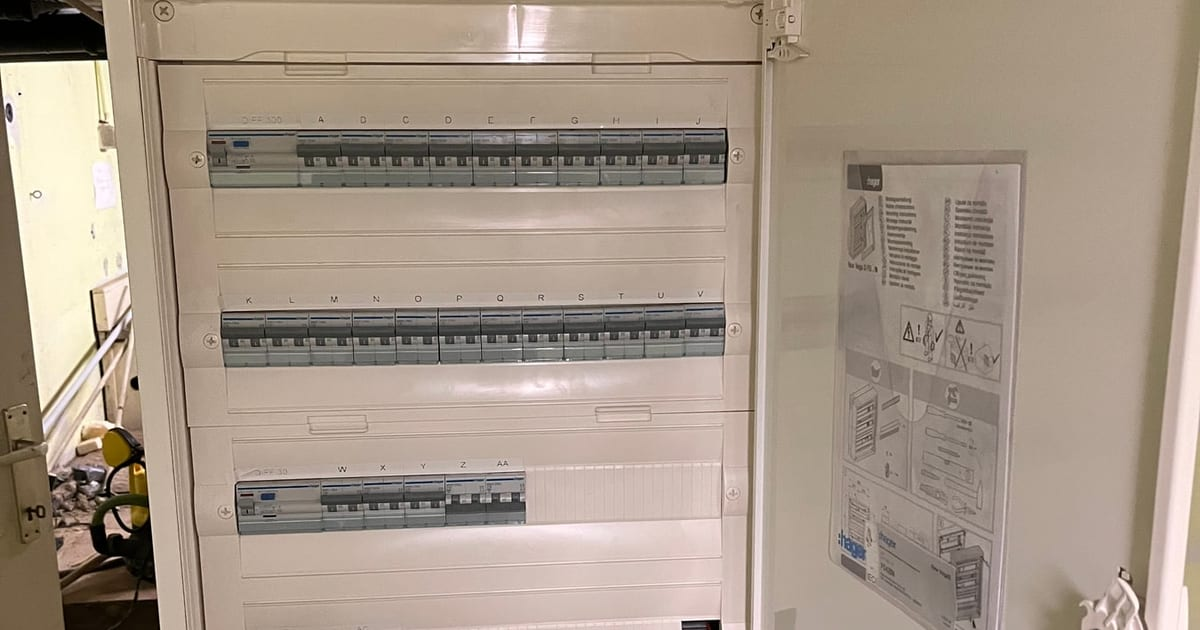
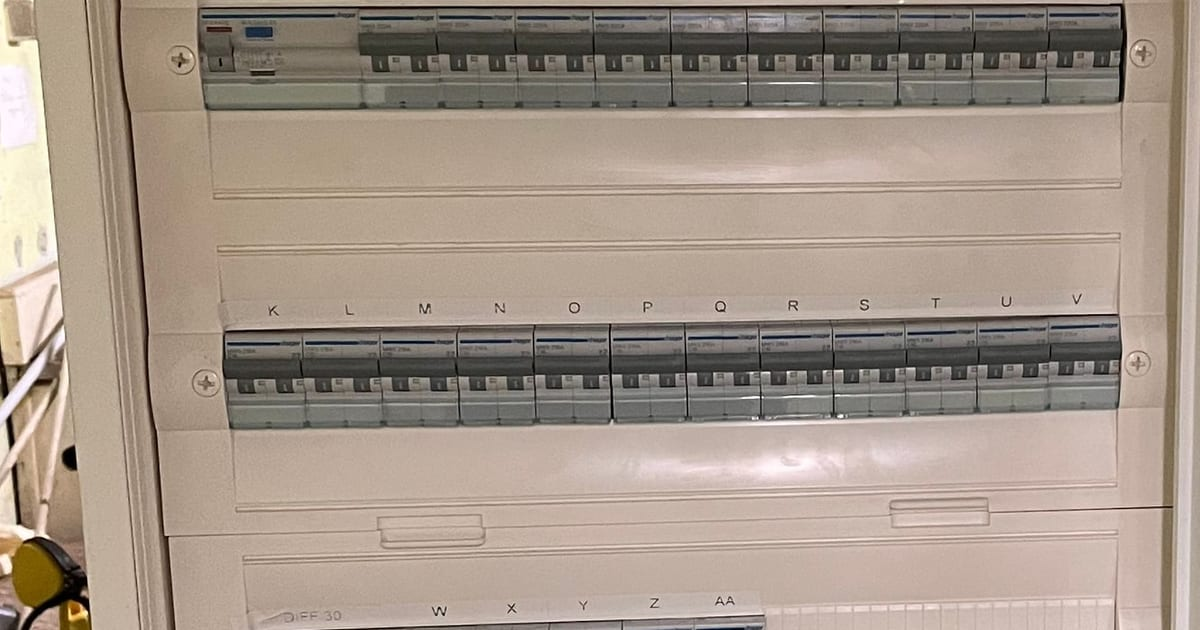
Foto's: werffoto generiek bijgesneden (enkel handen en kabels), verdeelkast bijgesneden, 4 rechtenvrije foto's (CC0/publiek domein, bronnen in assets-in/stock/bronnen.json); 10 van de 15 placeholders vervangen

diff --git a/src/data/fotos.ts b/src/data/fotos.ts
@@ -1,10 +1,15 @@
-// Echte foto's van het werk van Heeman Electrics (aangeleverd 23-09-2026, verwerkt met scripts/fotos.mjs: metadata/GPS verwijderd).
+// Foto's: eigen werffoto's van Heeman Electrics (generiek bijgesneden, 29-10-2026) + rechtenvrije foto's (CC0/publiek domein,
+// bron en licentie in assets-in/stock/bronnen.json). Verwerkt met scripts/fotos.mjs: metadata/GPS verwijderd.
 // `focus` = object-position: welk deel van de foto zichtbaar blijft als hij wordt bijgesneden.
 // `titel` = korte beschrijving voor realisatiekaarten; gemeente nog aan te vullen.
 import type { ImageMetadata } from 'astro';
-import bert from '../assets/fotos/bert-aan-het-werk.jpg';
+import bekabeling from '../assets/fotos/bekabeling-renovatie.jpg';
 import laadpaal from '../assets/fotos/laadpaal-gevel-baksteen.jpg';
-import verdeelkast from '../assets/fotos/verdeelkast-hager.jpg';
+import verdeelkast from '../assets/fotos/verdeelkast.jpg';
+import buitenpost from '../assets/fotos/videofoon-buitenpost.jpg';
+import sfeerverlichting from '../assets/fotos/sfeerverlichting.jpg';
+import zonnepanelen from '../assets/fotos/zonnepanelen-dak.jpg';
+import oudeVerdeelkast from '../assets/fotos/oude-verdeelkast.jpg';
 import stopcontactenAf from '../assets/fotos/stopcontacten-travertin-afgewerkt.jpg';
 import stopcontactenPlaatsing from '../assets/fotos/stopcontacten-travertin-plaatsing.jpg';
 import schakelaars from '../assets/fotos/schakelaars-inbouw.jpg';
@@ -12,10 +17,10 @@ import schakelaars from '../assets/fotos/schakelaars-inbouw.jpg';
 export type Foto = { src: ImageMetadata; alt: string; focus: string; titel: string };
 
 export const fotos = {
-  bert: {
-    src: bert,
-    alt: 'Elektricien van Heeman Electrics trekt nieuwe kabels door een opengekapte muur tijdens een renovatie',
-    focus: '50% 22%',
+  bekabeling: {
+    src: bekabeling,
+    alt: 'Handen van een elektricien die nieuwe kabels door een opengekapte muur trekken tijdens een renovatie',
+    focus: '55% 40%',
     titel: 'Nieuwe bekabeling tijdens een renovatie',
   },
   laadpaal: {
@@ -27,7 +32,7 @@ export const fotos = {
   verdeelkast: {
     src: verdeelkast,
     alt: 'Nieuwe verdeelkast met automaten en differentieelschakelaars, netjes gelabeld',
-    focus: '38% 50%',
+    focus: '50% 45%',
     titel: 'Nieuwe verdeelkast met differentieelschakelaars',
   },
   stopcontactenAf: {
@@ -47,6 +52,31 @@ export const fotos = {
     alt: 'Inbouwmechanismen voor schakelaars in de muur, klaar voor de afwerking',
     focus: '52% 42%',
     titel: 'Schakelaars klaar voor de afwerking',
+  },
+  // Rechtenvrij (zie assets-in/stock/bronnen.json)
+  buitenpost: {
+    src: buitenpost,
+    alt: 'Buitenpost van een videofoon met camera en drukknoppen aan een bakstenen gevel',
+    focus: '50% 45%',
+    titel: 'Videofoon aan de voordeur',
+  },
+  sfeerverlichting: {
+    src: sfeerverlichting,
+    alt: 'Hanglampen met warm licht boven een eettafel',
+    focus: '45% 40%',
+    titel: 'Sfeerverlichting met warm licht',
+  },
+  zonnepanelen: {
+    src: zonnepanelen,
+    alt: 'Zonnepanelen op het dak van een woning',
+    focus: '60% 45%',
+    titel: 'Zonnepanelen op een dak',
+  },
+  oudeVerdeelkast: {
+    src: oudeVerdeelkast,
+    alt: 'Verouderde verdeelkast met losse zekeringkasten en opbouwleidingen tegen een muur',
+    focus: '22% 50%',
+    titel: 'Verouderde verdeelkast',
   },
 } satisfies Record<string, Foto>;
 

diff --git a/src/data/diensten.ts b/src/data/diensten.ts
@@ -167,7 +167,7 @@ export const diensten: Dienst[] = [
           'Ja. We komen langs, bekijken uw installatie en zeggen u wat er moet gebeuren voordat u de keuring aanvraagt. Zo voorkomt u verrassingen.',
       },
     ],
-    fotos: ['verdeelkast', { placeholder: 'dezelfde verdeelkast vóór de werken' }],
+    fotos: ['oudeVerdeelkast', 'verdeelkast'],
     bijgewerkt: BIJGEWERKT,
   },
   {
@@ -217,7 +217,7 @@ export const diensten: Dienst[] = [
         antwoord: 'Ja. Een Niko Home Control-installatie kan later worden aangepast of uitgebreid. Bel of stuur een WhatsApp.',
       },
     ],
-    fotos: [{ placeholder: 'Niko Home Control-bediening in een woning' }, { placeholder: 'verdeelkast met domotica-modules' }],
+    fotos: ['schakelaars', { placeholder: 'verdeelkast met domotica-modules' }],
     bijgewerkt: BIJGEWERKT,
   },
   {
@@ -273,7 +273,7 @@ export const diensten: Dienst[] = [
         antwoord: 'Ja. Na de renovatie maken we het eendraadschema en het situatieschema die nodig zijn voor de keuring.',
       },
     ],
-    fotos: [{ placeholder: 'nieuwe bekabeling tijdens een renovatie' }, 'verdeelkast'],
+    fotos: ['bekabeling', 'verdeelkast'],
     bijgewerkt: BIJGEWERKT,
   },
   {
@@ -328,7 +328,7 @@ export const diensten: Dienst[] = [
         antwoord: 'Soms wel. Dat hangt af van uw huidige verdeelkast en beveiliging. We bekijken het bij het bezoek en nemen het mee in de offerte.',
       },
     ],
-    fotos: [{ placeholder: 'omvormer en thuisbatterij netjes aangesloten' }, { placeholder: 'laadpaal gekoppeld aan zonnepanelen' }],
+    fotos: ['zonnepanelen', { placeholder: 'omvormer en thuisbatterij netjes aangesloten' }],
     bijgewerkt: BIJGEWERKT,
   },
   {
@@ -420,7 +420,7 @@ export const diensten: Dienst[] = [
         antwoord: 'Dat hangt af van het systeem. Als u dat al weet, houden we er bij de keuze van het systeem rekening mee.',
       },
     ],
-    fotos: [{ placeholder: 'buitenpost van een videofoon aan de voordeur' }, { placeholder: 'binnenpost met scherm' }],
+    fotos: ['buitenpost', { placeholder: 'binnenpost met scherm' }],
     bijgewerkt: BIJGEWERKT,
   },
   {
@@ -466,7 +466,7 @@ export const diensten: Dienst[] = [
         antwoord: 'Ja, we plaatsen schakelaars en dimmers die passen bij uw verlichting.',
       },
     ],
-    fotos: [{ placeholder: 'sfeerverlichting in een woonkamer' }, { placeholder: 'buitenverlichting in de tuin' }],
+    fotos: ['sfeerverlichting', { placeholder: 'buitenverlichting in de tuin' }],
     bijgewerkt: BIJGEWERKT,
   },
   {
@@ -518,7 +518,7 @@ export const diensten: Dienst[] = [
         antwoord: 'Ja, stuur gerust een foto via WhatsApp naar 0485 19 00 27. Zo kunnen we sneller inschatten wat er aan de hand is.',
       },
     ],
-    fotos: ['verdeelkast', { placeholder: 'herstelling aan een verdeelkast of stopcontact' }],
+    fotos: ['verdeelkast', 'oudeVerdeelkast'],
     bijgewerkt: BIJGEWERKT,
   },
 ];

diff --git a/src/data/realisaties.ts b/src/data/realisaties.ts
@@ -52,7 +52,7 @@ export const realisaties: Realisatie[] = [
     titel: 'Nieuwe bekabeling tijdens een renovatie',
     dienst: 'renovatie-elektriciteit',
     gemeente: 'Wijnegem',
-    fotos: { hoofd: { placeholder: 'nieuwe kabels in een opengekapte muur' } },
+    fotos: { hoofd: 'bekabeling' },
     situatie: 'Bij de renovatie van een woonkamer bleek de oude bedrading zonder buizen in de muur te liggen, met te weinig stopcontacten.',
     oplossing: 'Muren opgekapt, nieuwe buizen en kabels getrokken voor extra stopcontacten en lichtpunten, alles klaar voor de pleisterwerken.',
     resultaat: 'Veilige, nieuwe bekabeling volgens het AREI, met stopcontacten op de plaatsen waar de klant ze echt nodig heeft.',

diff --git a/src/data/vacature.ts b/src/data/vacature.ts
@@ -118,7 +118,7 @@ export const vacatures: Vacature[] = [
       vragenVervoer,
     ],
     ervaringMaanden: 0,
-    kaart: { placeholder: 'team aan het werk op een werf' },
+    kaart: 'bekabeling',
   },
 ];
 
